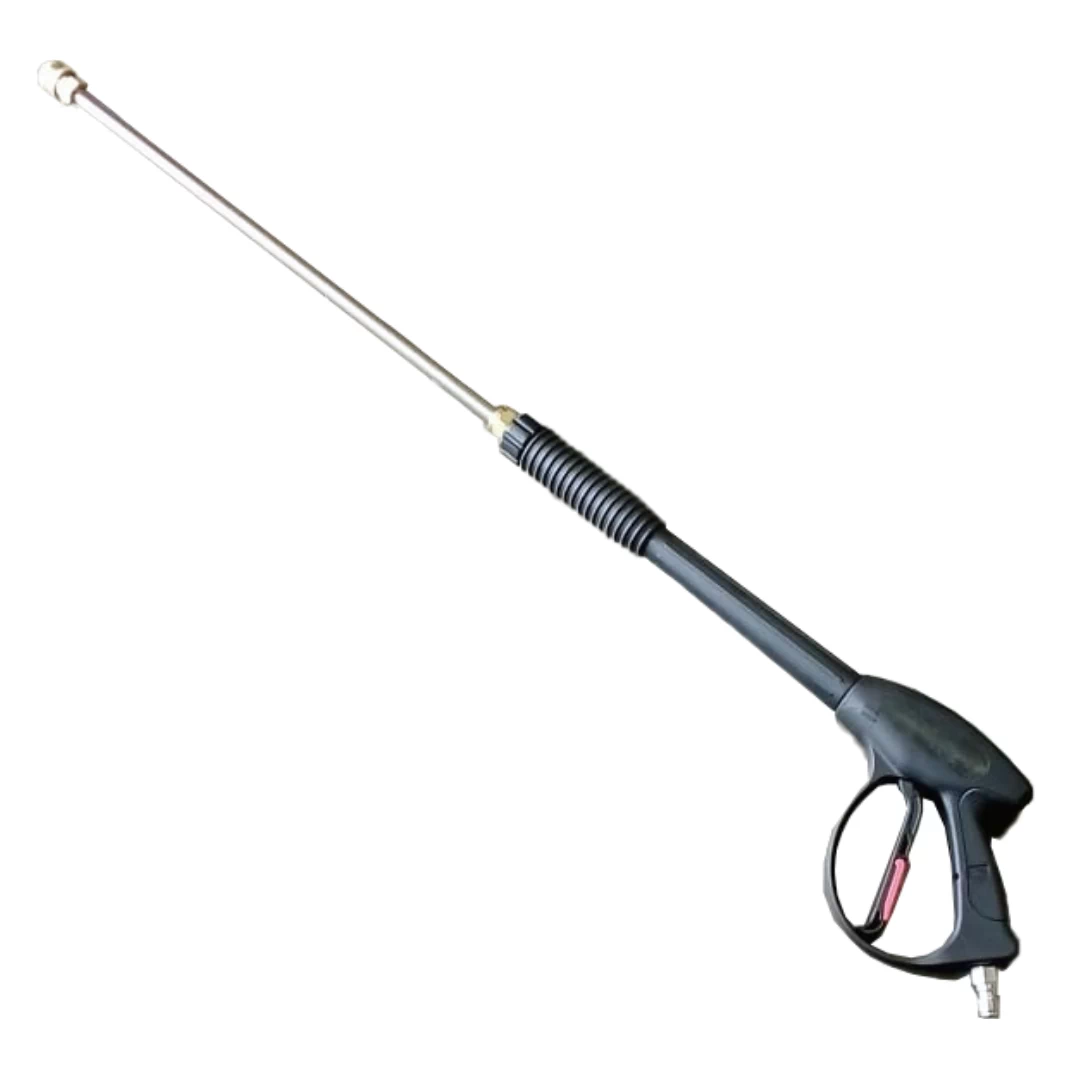
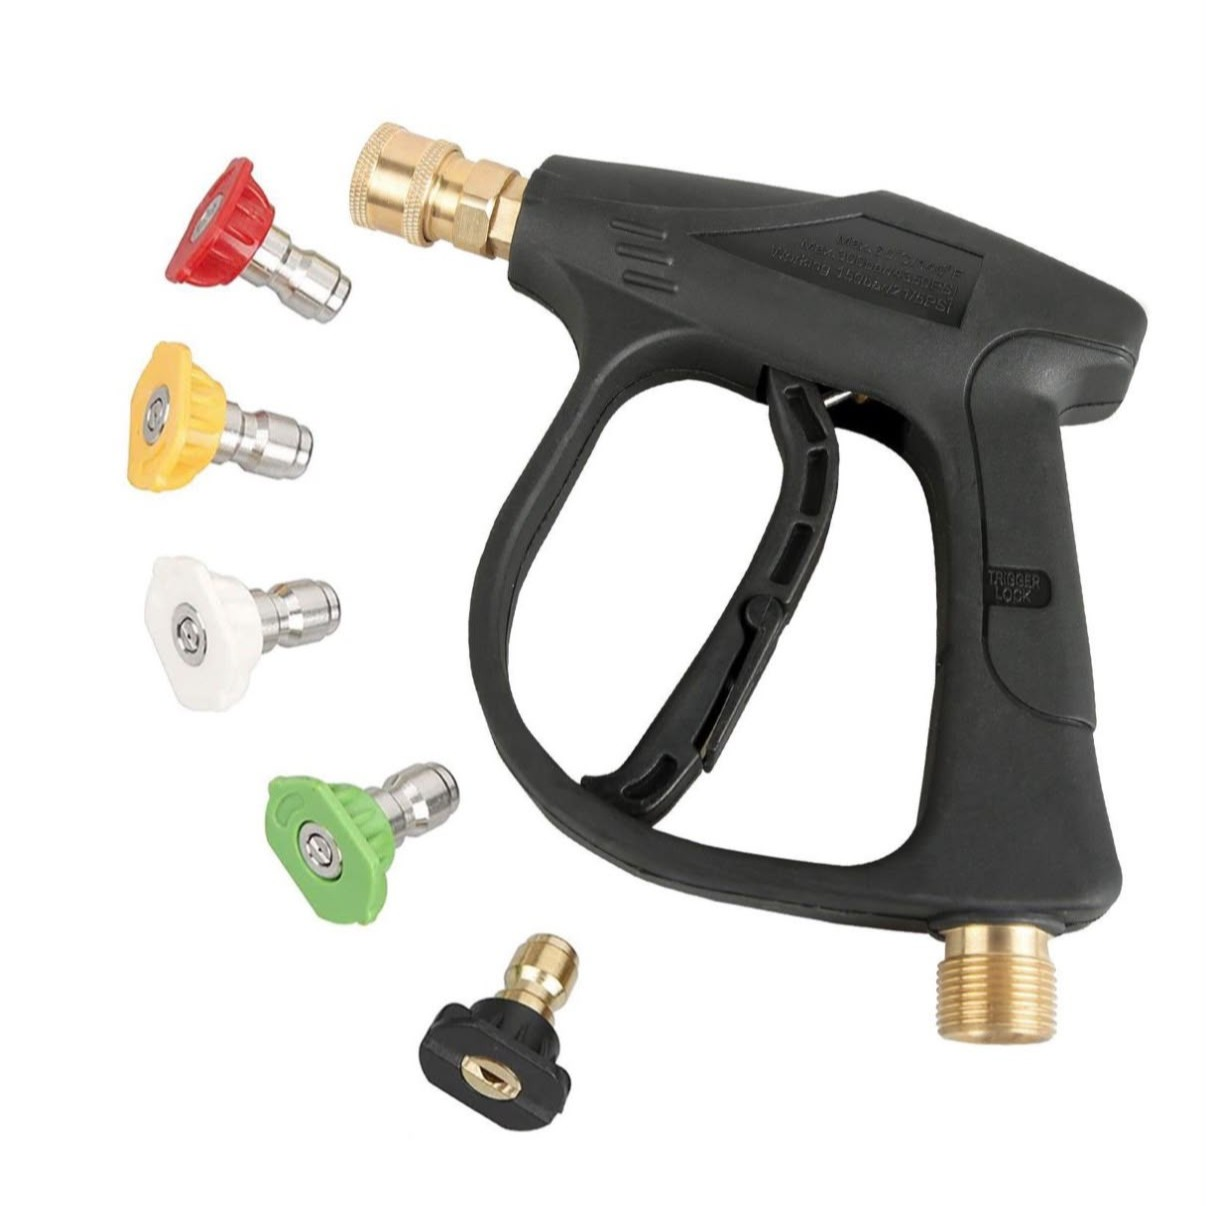
update: enhance product details for High Pressure Washer Gun with specifications

diff --git a/novachem-site/catalogue.html b/novachem-site/catalogue.html
@@ -755,7 +755,7 @@
         </article>
 
         <article class="product-card" data-category="equipment"
-          data-full-desc="High Pressure Washer Gun. Detailed performance specs and attachments will be added soon."
+          data-full-desc="<p><strong>Max Temperature:</strong> 60 - 140 Degrees Celsius</p><p><strong>Max Working Pressure:</strong> 4350psi</p><p><strong>Max Flow:</strong> 30L/min</p>"
           data-uses="Cleaning|Automotive|Industrial">
           <div class="media-block tone-steel"><span class="product-category-tag tag-equipment">Equipment</span><img
               src="images/products/high-pressure-washer-gun.jpg" alt="High Pressure Washer Gun"></div>